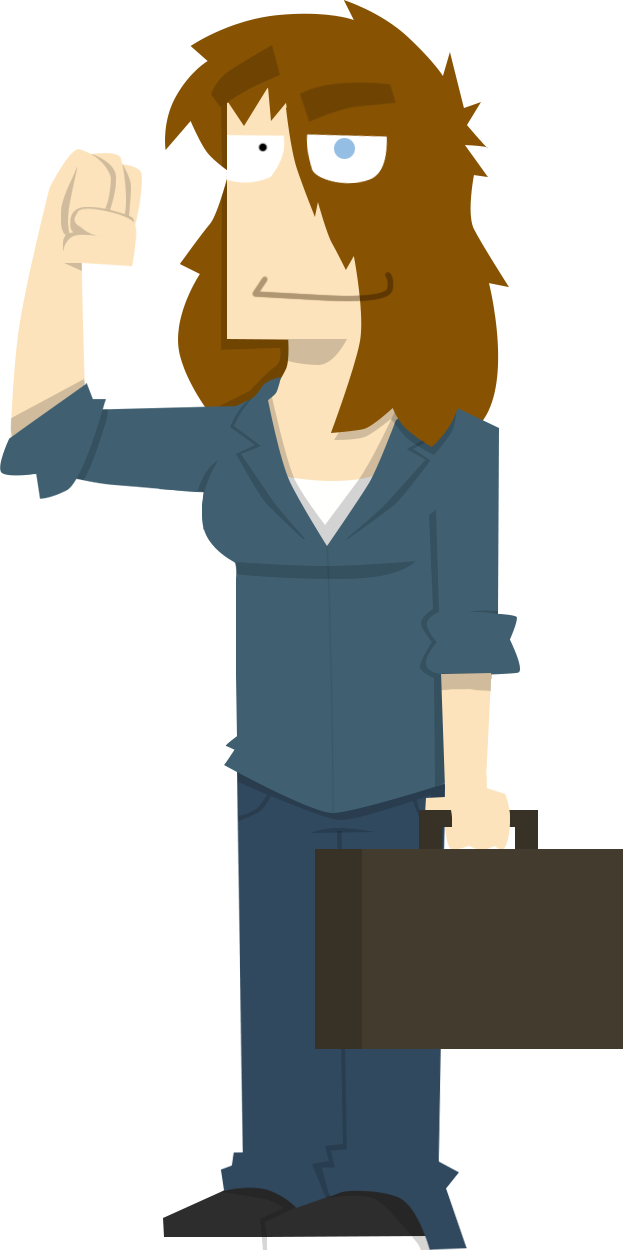
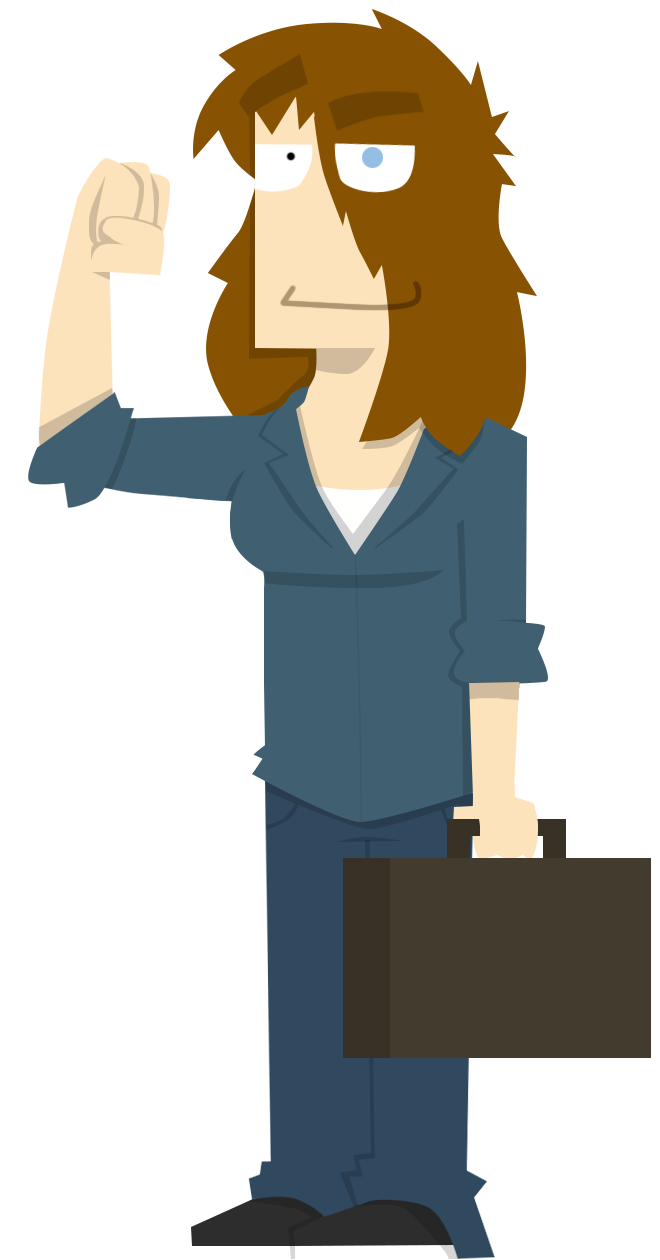
modifications css

diff --git a/src/components/stateless/education.js b/src/components/stateless/education.js
@@ -8,24 +8,24 @@ const Education = () => {
             <h4>2019 - <span>Ecole O'Clock</span> - Formation développeur Web & Web Mobile</h4>
             <p><span>-></span> 3 mois de « socle » : Acquisition des connaissances de base de développement web & web-mobile </p>
             <ul>
-                <li>Intégrer des pages web en HTML & CSS responsive</li>
-                <li>Développer des fonctionnalités dynamiques en Javascript</li>
-                <li>Concevoir, implémenter et utiliser des bases de données</li>
-                <li>Développer une application serveur en PHP</li>
-                <li>Programmation Orientée Objet</li>
-                <li>Déploiement d'une application web</li>
+                <span><li>Intégrer des pages web en HTML & CSS responsive</li></span>
+                <span><li>Développer des fonctionnalités dynamiques en Javascript</li></span>
+                <span><li>Concevoir, implémenter et utiliser des bases de données</li></span>
+                <span><li>Développer une application serveur en PHP</li></span>
+                <span><li>Programmation Orientée Objet</li></span>
+                <span><li>Déploiement d'une application web</li></span>
             </ul>
             <p><span>-></span> 1 mois de spécialisation sur le CMS Wordpress</p>
             <ul>
-                <li>Réaliser un développement spécifique / création des thèmes et plugins</li>
-                <li>Gestion des utilisateurs / Ajout de fonctionnalités de l'interface admin</li>
-                <li>Requêtes Ajax avec WP / Rest API</li>
+                <span><li>Réaliser un développement spécifique / création des thèmes et plugins</li></span>
+                <span><li>Gestion des utilisateurs / Ajout de fonctionnalités de l'interface admin</li></span>
+                <span><li>Requêtes Ajax avec WP / Rest API</li></span>
             </ul>
 
             <h4>2019 - <span>Opquast</span> - Certification Maîtrise de la qualité en projet Web</h4>
-            <h5><span>-></span> Score de 720/1000 : <span>Niveau CONFIRMÉ</span></h5>
-            <p>Bonne connaissance des bonnes pratiques du Web et du vocabulaire associé Capacités à comprendre
-            et échanger avec les autres professionnels du web.</p>
+            <h5><span>-></span> Score de <span>720/1000</span> : <span>Niveau CONFIRMÉ</span></h5>
+            <p><span>Bonne connaissance</span> des bonnes pratiques du Web et du vocabulaire associé.</p>
+            <p>Capacités à comprendre et échanger avec les autres professionnels du web.</p>
         </div>
     )
 }

diff --git a/public/index.html b/public/index.html
@@ -1,5 +1,5 @@
 <!DOCTYPE html>
-<html lang="en">
+<html lang="fr">
   <head>
     <meta charset="utf-8" />
     <link rel="icon" href="%PUBLIC_URL%/favicon.ico" />
@@ -7,7 +7,7 @@
     <meta name="theme-color" content="#000000" />
     <meta
       name="description"
-      content="Web site created using create-react-app"
+      content="Curriculum Vitae de Marianne Piquet-Nowak"
     />
     <link rel="apple-touch-icon" href="%PUBLIC_URL%/apple-icon.png" />
     <!--
@@ -25,7 +25,7 @@
       work correctly both with client-side routing and a non-root public URL.
       Learn how to configure a non-root public URL by running `npm run build`.
     -->
-    <title>React App</title>
+    <title>CV React-Redux de Marianne Piquet-Nowak</title>
   </head>
   <body>
     <noscript>You need to enable JavaScript to run this app.</noscript>

diff --git a/src/assets/styles/info.scss b/src/assets/styles/info.scss
@@ -1,12 +1,13 @@
 .info-tab {
-   display: flex;
-   justify-content: right;
-    td,
-    th {
-        border: 1px solid rgb(190, 190, 190);
-        padding: 10px;
-    }
-}
+    display: flex;
+    justify-content: flex-end;
+     td,
+     th {
+         border: 1px solid #ffffff;
+         padding: 10px;
+     }
+ }
+
 
 td {
     text-align: center;
@@ -18,7 +19,7 @@ tr {
 
 tbody {
     border-collapse: collapse;
-    border: 2px solid rgb(200, 200, 200);
+    border: 2px solid #ffffff;
     letter-spacing: 1px;
     font-family: sans-serif;
     font-size: .8rem;
@@ -26,6 +27,7 @@ tbody {
     font-size: 15px;
     font-family: 'Press Start 2P', ;
 }
+
 
 
 

diff --git a/src/assets/styles/character.scss b/src/assets/styles/character.scss
@@ -3,10 +3,9 @@
     justify-content: space-around;
     margin: 30px 0;
     width: 100%;
-    max-height: 569px;
+    // max-height: 600px;  
+    box-sizing: content-box;
 
-
-    
 }
 
 .div-character {
@@ -65,4 +64,6 @@ Faire une bulle de BD : @http://www.lackofinspiration.com/news-3-107-quand-les-c
     background-color: rgba(58, 57, 57, 0.3);
     padding: 0 10px;
     color: rgba(255, 255, 255, 0.4);
+    box-sizing: content-box;
+
 }

diff --git a/src/notfound.js b/src/notfound.js
@@ -5,9 +5,8 @@ import './assets/styles/not-found.scss';
 
 import NotFoundGif from './assets/gif/not-found.gif';
 
-import CategoryButton from './components/shared/category-button';
-import * as types from './actions/actionTypes';
-
+// import CategoryButton from './components/shared/category-button';
+// import * as types from './actions/actionTypes';
 
 
 const NotFound = (props) => {

diff --git a/src/assets/styles/form.scss b/src/assets/styles/form.scss
@@ -41,7 +41,7 @@
   }
 
   .tooltiptext {
-	  font-size: 13px;;
+	font-size: 13px;;
 	visibility: hidden;
 	width: 120px;
 	background-color: #555;
@@ -54,7 +54,7 @@
 	bottom: 125%;
 	left: 75%;
 	margin-left: -60px;
-	
+	padding: 5px;
   }
 
   .tooltiptext::after {

diff --git a/src/components/skills-content.js b/src/components/skills-content.js
@@ -1,5 +1,5 @@
 import React from 'react';
-import MainCharacter from '../assets/images/perso-cv.png';
+import MainCharacter from '../assets/images/skills.png';
 import Skills from './stateless/skills';
 
 import Bubble from './shared/bubble';

diff --git a/src/assets/styles/category.scss b/src/assets/styles/category.scss
@@ -3,8 +3,9 @@
     text-decoration: none;
     font-family: 'Press Start 2P', ;
     font-size: 11px;
-    padding: 0;
+    padding: 5px;
     color: rgb(21, 226, 21);
+    border-radius: 3px;
 
 }
 

diff --git a/src/assets/styles/skills.scss b/src/assets/styles/skills.scss
@@ -3,10 +3,9 @@
     font-family: 'Ubuntu Mono', monospace;
     text-transform: uppercase;
     font-weight: bold;
-    box-sizing: border-box;
+    box-sizing: content-box;
 
 }
-
 
 
 //Setup

diff --git a/src/components/info.js b/src/components/info.js
@@ -20,7 +20,7 @@ const Info = () => {
 					<th colSpan="1">Statut</th>
 					<th colSpan="2">Développeuse Web Front-End</th>
 				</tr>
-			</tbody>
+			</tbody>	
 		</div>
 	)
 }

diff --git a/src/assets/styles/experience.scss b/src/assets/styles/experience.scss
@@ -1,6 +1,7 @@
 .experience-content {
 
     font-family: 'Ubuntu Mono', monospace;
+    box-sizing: content-box; 
 
     h4 {
         border-bottom: 1px dashed rgb(21, 226, 21);

diff --git a/src/assets/styles/education.scss b/src/assets/styles/education.scss
@@ -1,6 +1,7 @@
 .education-content {
 
     font-family: 'Ubuntu Mono', monospace;
+    box-sizing: content-box;
 
     h4 {
         border-bottom: 1px dashed rgb(21, 226, 21);
